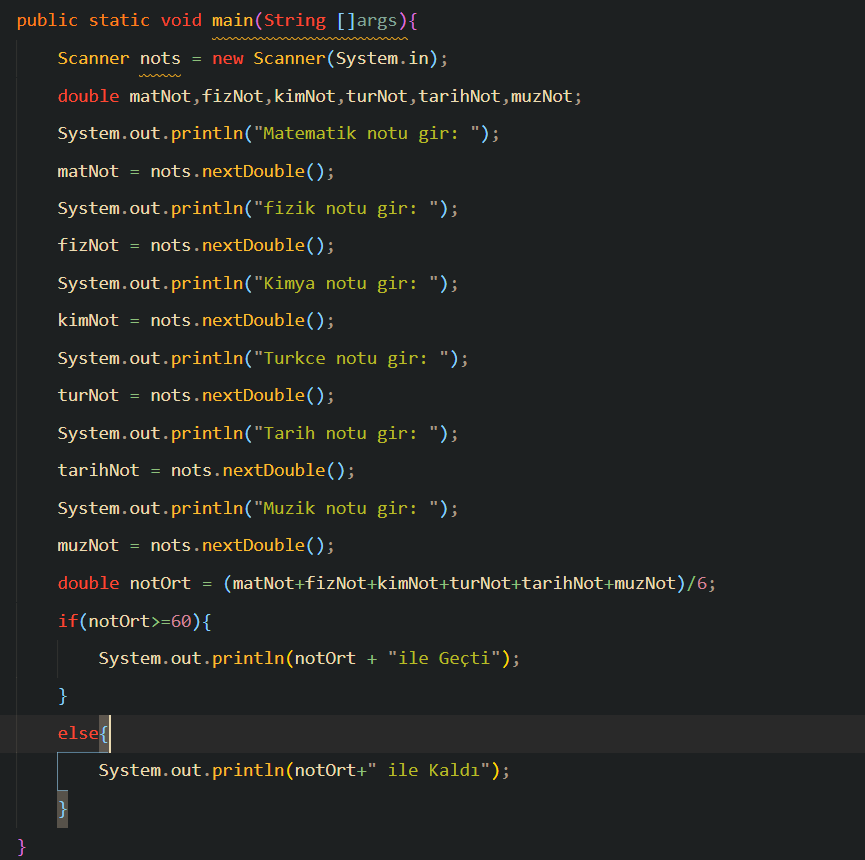
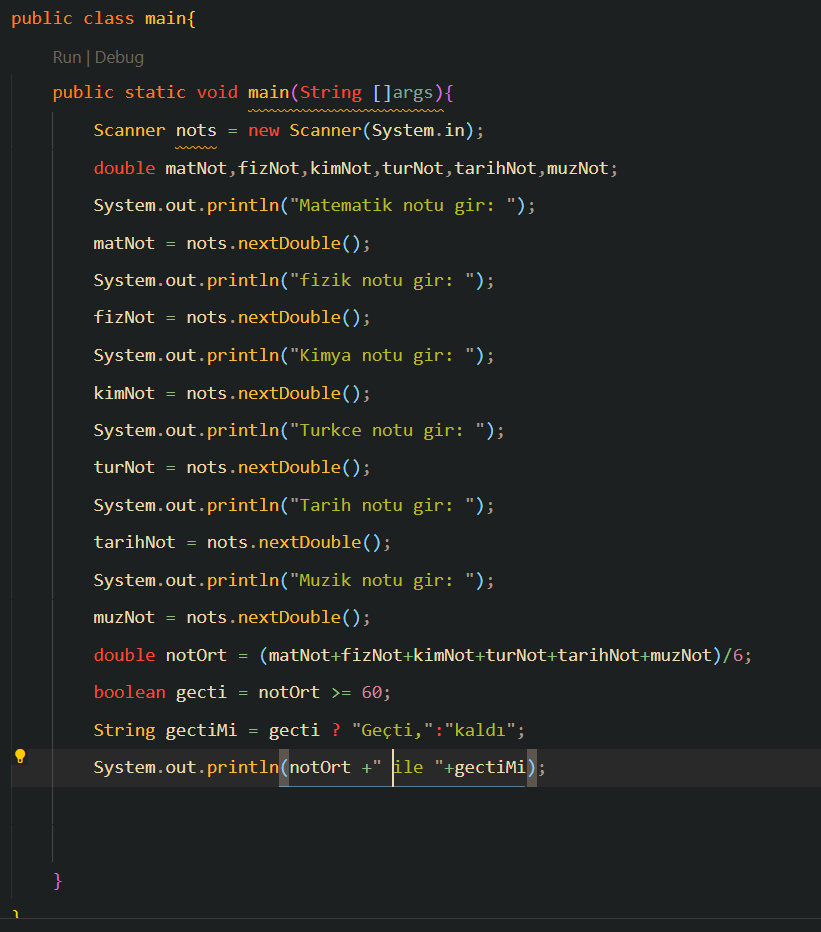
5

diff --git a/main.java b/main.java
@@ -16,11 +16,10 @@ public class main{
         System.out.println("Muzik notu gir: ");
         muzNot = nots.nextDouble();
         double notOrt = (matNot+fizNot+kimNot+turNot+tarihNot+muzNot)/6;
-        if(notOrt>=60){
-            System.out.println(notOrt + "ile Geçti");
-        }
-        else{
-            System.out.println(notOrt+" ile Kaldı");
-        }
+        boolean gecti = notOrt >= 60;
+        String gectiMi = gecti ? "Geçti,":"kaldı";
+        System.out.println(notOrt +" ile "+gectiMi);
+
+
     }
 }
